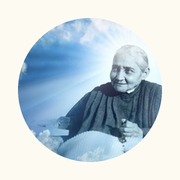
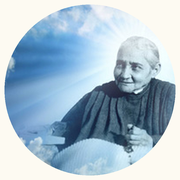
Agrandit medaillon icones PWA pour meilleure visibilite du visage

diff --git a/make_icons.py b/make_icons.py
@@ -11,7 +11,7 @@ from PIL import Image, ImageDraw
 
 SRC = "static/luisa.jpg"
 IVORY = (253, 250, 242)        # #fdfaf2
-PHOTO_RATIO = 0.80             # la photo occupe 80 % de l'icône
+PHOTO_RATIO = 0.95             # la photo occupe 95 % de l'icône (fine marge ivoire)
 SUPERSAMPLE = 4                # anti-crénelage du cercle
 
 ICONS = [
